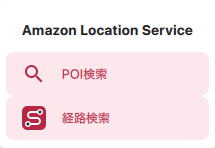
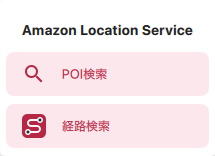
Separate the two location search menu buttons

diff --git a/main.qml b/main.qml
@@ -224,7 +224,6 @@ Item {
             x: serviceButton.width - width
             y: serviceButton.height
             padding: 6
-            spacing: 4
             modal: false
             closePolicy: Popup.CloseOnEscape | Popup.CloseOnPressOutsideParent
 
@@ -242,6 +241,10 @@ Item {
                 icon.source: QfTheme.getThemeVectorIcon("ic_baseline_search_white")
                 enabled: !plugin.pending
                 onTriggered: plugin.openPlaces(false)
+            }
+            MenuSeparator {
+                verticalPadding: 0
+                contentItem: Item { implicitHeight: plugin.gutter / 2 }
             }
             SearchMenuItem {
                 text: "経路検索"
